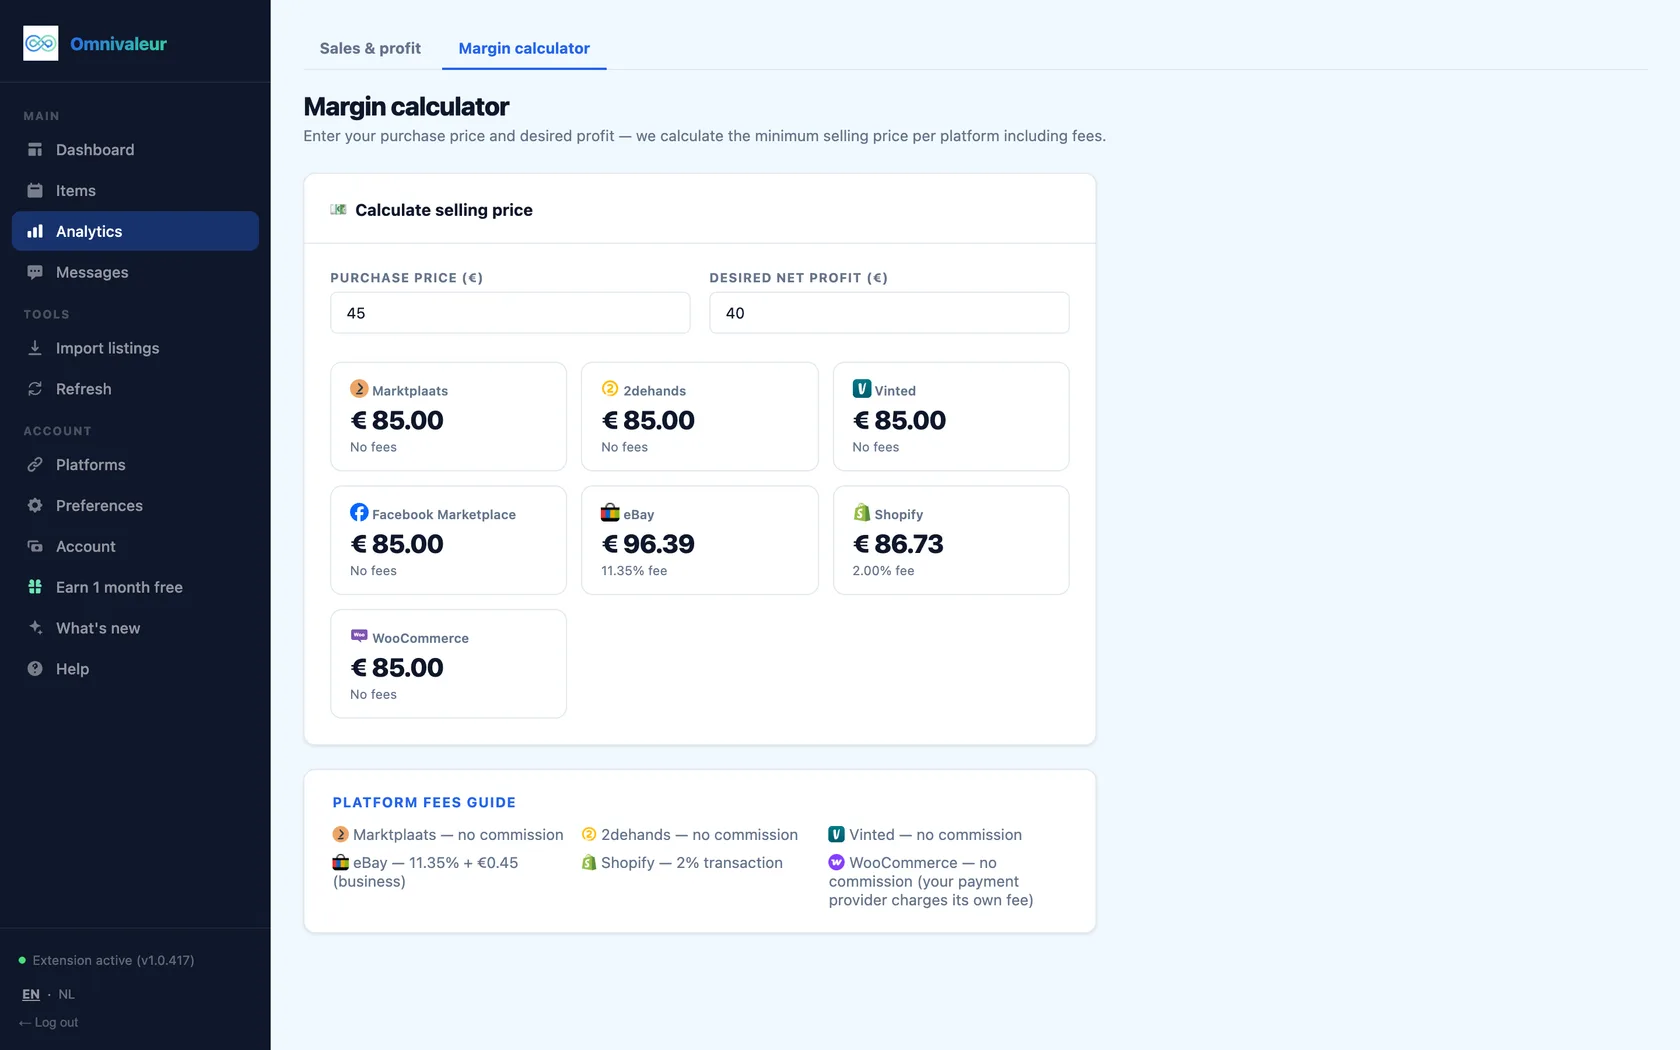
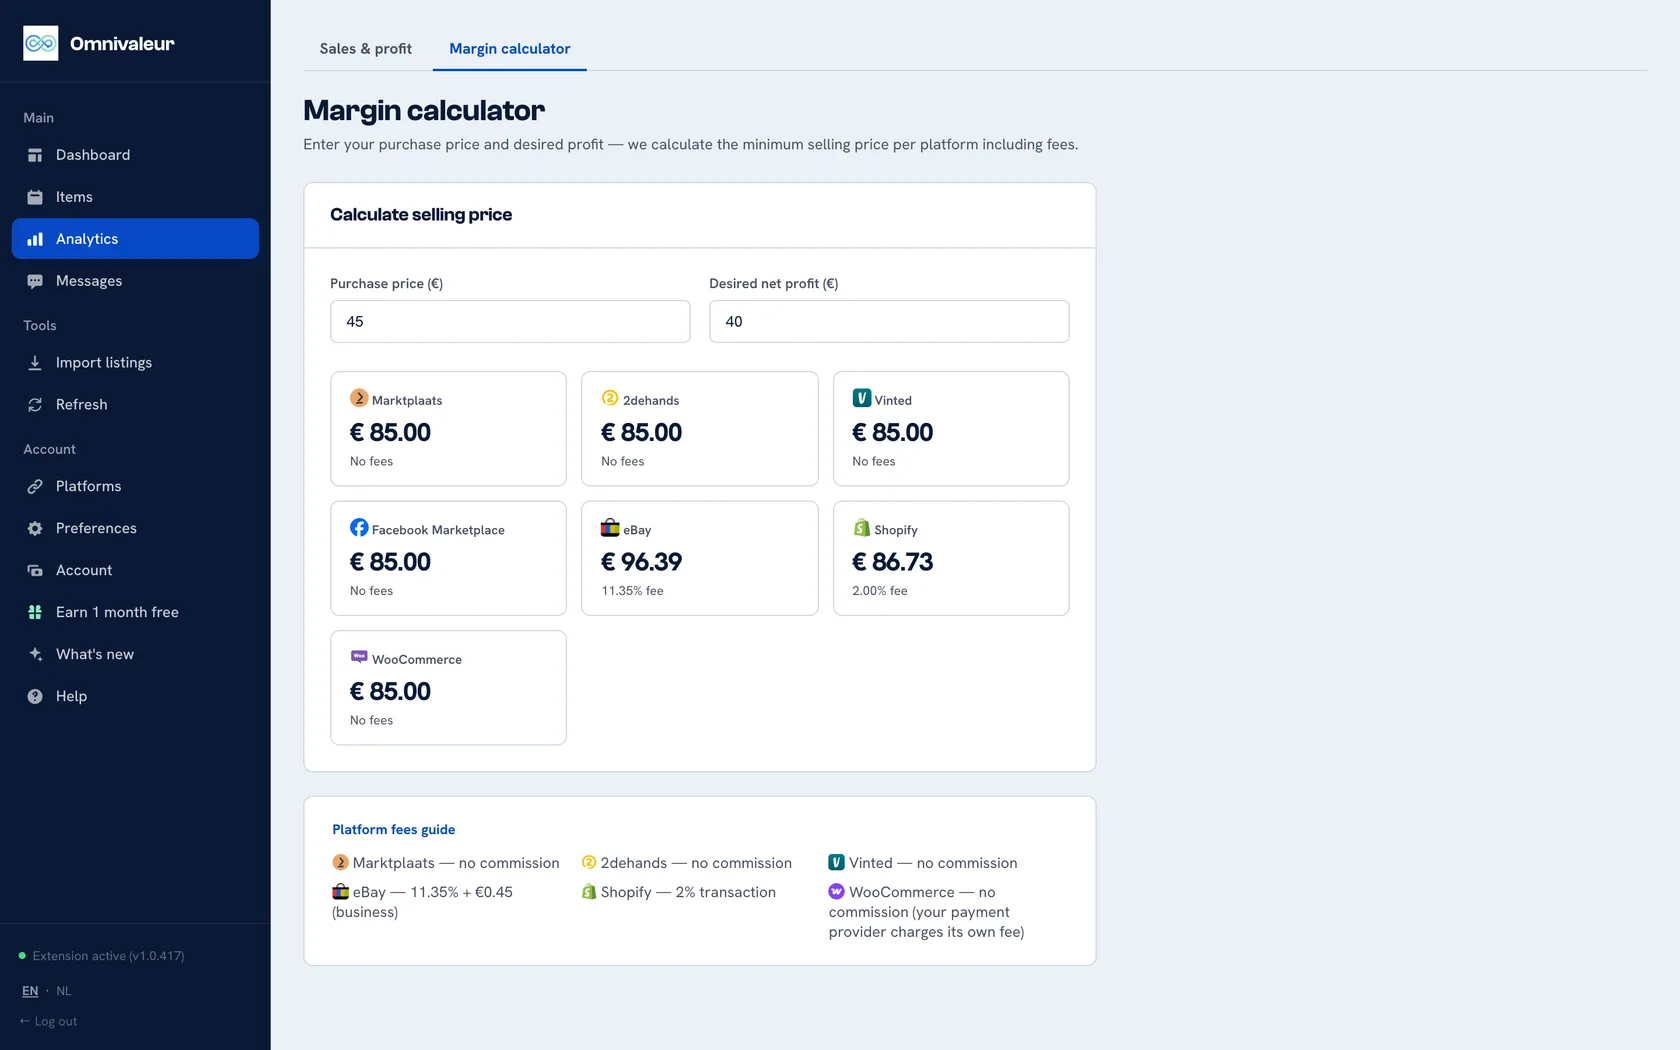
dashboard: laatste details, vertalingen, verse schermafbeeldingen op de site

diff --git a/frontend/app.html b/frontend/app.html
@@ -2,7 +2,7 @@
 <html lang="en">
 <head>
 <meta charset="UTF-8">
-<script src="/i18n.js?v=7e469d0d5d"></script>
+<script src="/i18n.js?v=a968cb9cf0"></script>
 <meta name="viewport" content="width=device-width, initial-scale=1">
 <title>Omnivaleur</title>
 <meta name="robots" content="noindex, nofollow">
@@ -243,15 +243,15 @@ tr.selected td { background: #dde8fd; }
 .pm-dot-icon.s-error { background: #fbe9c6; border-color: #fbbf24; }
 .pm-dot-icon.s-none { background: #eaf1f6; border-color: #d0d8e1; opacity: .45; }
 /* Staat er wél op, maar via een dubbele rij van hetzelfde artikel. */
-.pm-dot-icon.s-twin { background: #ede9fe; border-color: #c4b5fd; }
+.pm-dot-icon.s-twin { background: #dfe8f6; border-color: #d0d8e1; }
 .pm-dot-icon .pm-dot-badge { position: absolute; bottom: -3px; right: -3px; width: 12px; height: 12px; border-radius: 50%; border: 1.5px solid #fff; font-size: 7px; display: flex; align-items: center; justify-content: center; font-weight: 800; line-height: 1; }
 .pm-dot-icon.s-active .pm-dot-badge { background: #005f3a; color: #fff; }
 .pm-dot-icon.s-pending .pm-dot-badge { background: #7b4800; color: #fff; }
 .pm-dot-icon.s-error .pm-dot-badge { background: #a51f1b; color: #fff; }
-.pm-dot-icon.s-twin .pm-dot-badge { background: #7c3aed; color: #fff; }
+.pm-dot-icon.s-twin .pm-dot-badge { background: #0649c7; color: #fff; }
 .pm-dot-label { font-size: 9px; font-weight: 700; color: #485363; letter-spacing: .2px; text-transform: uppercase; }
 .pm-dot-icon.s-active + .pm-dot-label { color: #005f3a; }
-.pm-dot-icon.s-twin + .pm-dot-label { color: #6d28d9; }
+.pm-dot-icon.s-twin + .pm-dot-label { color: #0039ab; }
 .pm-cb-listed { display: flex; align-items: center; gap: 8px; padding: 9px 13px; border: 1.5px solid #85edbc; border-radius: 8px; background: #d8f7e6; }
 .pm-cb-listed span { font-size: 13px; font-weight: 600; color: #005f3a; }
 .pm-cb-listed .pm-cb-check { font-size: 13px; margin-left: auto; color: #005f3a; font-weight: 800; }
@@ -315,7 +315,7 @@ textarea { resize: vertical; min-height: 80px; }
 
 /* ── Wat is er nieuw: tijdlijn ─────────────────────────────────── */
 .upd-hero{position:relative;overflow:hidden;border-radius:8px;padding:26px 28px;color:#fff;background:#0039ab;box-shadow:0 10px 30px rgba(6,73,199,.25)}
-.upd-hero::after{content:'';position:absolute;right:-70px;top:-70px;width:240px;height:240px;border-radius:50%;background:rgba(255,255,255,.1)}
+.upd-hero::after{display:none}
 .upd-hero h2{margin:0 0 4px;font-size:24px;font-weight:900;letter-spacing:-.4px;position:relative}
 .upd-hero p{margin:0 0 18px;font-size:13.5px;opacity:.85;position:relative;max-width:520px;line-height:1.5}
 .upd-tegels{display:grid;grid-template-columns:repeat(3,1fr);gap:10px;position:relative}
@@ -341,7 +341,7 @@ textarea { resize: vertical; min-height: 80px; }
 .upd-meta{display:flex;gap:8px;align-items:center;flex-wrap:wrap;margin-bottom:4px;font-size:11.5px;font-weight:700;color:var(--muted)}
 .upd-cat{background:#dde8fd;color:var(--blue);border-radius:6px;padding:2px 9px;font-size:10.5px;font-weight:800;}
 .upd[data-cat=automation] .upd-cat{background:#d8f7e6;color:#005f3a}
-.upd[data-cat=dashboard] .upd-cat{background:#f5f3ff;color:#6d28d9}
+.upd[data-cat=dashboard] .upd-cat{background:#eaf1f6;color:#0039ab}
 .upd[data-cat=plans] .upd-cat{background:#fbe9c6;color:#7b4800}
 .upd h3{margin:0 0 4px;font-size:16px;font-weight:900;letter-spacing:-.2px}
 .upd p{margin:0;font-size:13.5px;line-height:1.6;color:#15284b}
@@ -583,7 +583,7 @@ tr.an-row-missing { background: rgba(245,158,11,.05); }
 .protection-icon.green { background: var(--green-bg); }
 .protection-icon.blue { background: var(--blue-bg); }
 .protection-icon.yellow { background: var(--yellow-bg); }
-.protection-icon.purple { background: #f3e8ff; }
+.protection-icon.purple { background: #dfe8f6; }
 .protection-status { display: inline-flex; align-items: center; gap: 5px; font-size: 11px; font-weight: 700; padding: 3px 9px; border-radius: 6px; background: var(--green-bg); color: var(--green); margin-top: 4px; }
 .protection-status-dot { width: 6px; height: 6px; border-radius: 50%; background: var(--green); flex-shrink: 0; animation: protDotPulse 1.8s ease-in-out infinite; }
 @keyframes protDotPulse { 0%, 100% { opacity: 1; box-shadow: 0 0 0 0 rgba(22,163,74,.5); } 50% { opacity: .7; box-shadow: 0 0 0 4px rgba(22,163,74,0); } }
@@ -882,6 +882,8 @@ input:focus, textarea:focus, select:focus { box-shadow: none; outline: 2px solid
 .empty-icon .ic, .protection-icon .ic, .protections-summary-icon .ic { width: 22px; height: 22px; }
 .empty-icon { color: var(--muted); }
 ::selection { background: var(--mint); color: var(--text); }
+.upd-hero { box-shadow: none; }
+.upd-balk i { min-height: 4px; }
 </style>
 <!-- Google tag (gtag.js) -->
 <script async src="https://www.googletagmanager.com/gtag/js?id=G-VJ5BVD3GCH"></script>
@@ -5212,7 +5214,7 @@ function renderReferralTeaser() {
     ? ` <b style="color:#005f3a">${s.months_earned} month${s.months_earned !== 1 ? 's' : ''} earned.</b>` : '';
   doel.innerHTML = `
     <div style="display:flex;align-items:center;gap:10px 14px;flex-wrap:wrap;background:#d8f7e6;border:1px solid #85edbc;border-radius:8px;padding:10px 14px;margin-bottom:20px;font-size:13px;color:#005f3a;line-height:1.5">
-      <span style="font-size:18px">&#127873;</span>
+      <span style="font-size:18px;color:var(--blue)"><svg class="ic" aria-hidden="true"><use href="#ic-info"/></svg></span>
       <div style="flex:1;min-width:220px"><b>Earn 1 month free.</b> Every seller who subscribes through your link gives you a free month; they get 50% off their first month.${gehaald}</div>
       <div style="display:flex;gap:6px;flex-shrink:0">
         <button class="btn btn-sm btn-outline" onclick="referralCopy(_referral.link, this)">Copy my link</button>
@@ -5890,7 +5892,7 @@ async function toonImportSeintje() {
     const n = (d && d.by_status && d.by_status.pending) || 0;
     if (!n) return;
     doel.innerHTML = `<div style="display:flex;align-items:center;gap:10px 14px;flex-wrap:wrap;background:#dde8fd;border:1px solid #dde8fd;border-radius:8px;padding:12px 16px;margin-bottom:20px;font-size:13.5px;color:#0039ab;line-height:1.5">
-      <span style="font-size:18px">&#128229;</span>
+      <span style="font-size:18px;color:var(--blue)"><svg class="ic" aria-hidden="true"><use href="#ic-inbox"/></svg></span>
       <div style="flex:1;min-width:220px">${n === 1
         ? `<b>We found 1 advert of yours that is not in Omnivaleur yet.</b> One click puts it in, so you can publish it on your other channels.`
         : `<b>We found ${n} adverts of yours that are not in Omnivaleur yet.</b> One click puts them in, so you can publish them on your other channels.`}</div>
@@ -6927,7 +6929,7 @@ function renderDuplicateBar() {
       (i.listings || []).filter(l => ['active', 'hidden'].includes(l.status))
                         .map(l => PLATFORM_LABELS[l.platform] || l.platform)))];
     const eerste = g.items[0];
-    return `<div style="display:flex;align-items:center;gap:10px;padding:8px 0;border-top:1px solid #ede9fe">
+    return `<div style="display:flex;align-items:center;gap:10px;padding:8px 0;border-top:1px solid #dfe8f6">
       <div style="flex:1;min-width:0">
         <div style="font-size:13px;font-weight:600;color:#15284b;overflow:hidden;text-overflow:ellipsis;white-space:nowrap" translate="no">${esc(eerste.title || '')}</div>
         <div style="font-size:11px;color:#485363">${g.items.length} copies of one article${kanalen.length ? ' · live on ' + esc(kanalen.join(', ')) : ''}</div>
@@ -6937,16 +6939,16 @@ function renderDuplicateBar() {
   }).join('');
 
   bar.style.display = '';
-  bar.innerHTML = `<div style="border:1.5px solid #c4b5fd;background:#f5f3ff;border-radius:8px;padding:12px 14px;margin-bottom:14px">
+  bar.innerHTML = `<div style="border:1.5px solid #d0d8e1;background:#eaf1f6;border-radius:8px;padding:12px 14px;margin-bottom:14px">
     <div style="display:flex;align-items:center;gap:8px;flex-wrap:wrap">
-      <strong style="font-size:14px;color:#5b21b6">⧉ ${teveel} duplicate row${teveel === 1 ? '' : 's'} — the same article is in your inventory more than once</strong>
+      <strong style="font-size:14px;color:#0039ab">⧉ ${teveel} duplicate row${teveel === 1 ? '' : 's'} — the same article is in your inventory more than once</strong>
       <button class="btn btn-primary btn-sm" style="margin-left:auto" onclick="mergeAllDuplicates()">Merge all ${groepen.length}</button>
     </div>
-    <div style="font-size:12px;color:#5b21b6;margin-top:4px">
+    <div style="font-size:12px;color:#0039ab;margin-top:4px">
       Each copy only knows its own adverts, so the others look "not listed" — publish from one and you get a second advert for an article you already have for sale. Merging keeps every advert and puts them under one item.
     </div>
     ${regels}
-    ${groepen.length > TOON ? `<div style="font-size:11px;color:#7c3aed;padding-top:8px">…and ${groepen.length - TOON} more.</div>` : ''}
+    ${groepen.length > TOON ? `<div style="font-size:11px;color:#0649c7;padding-top:8px">…and ${groepen.length - TOON} more.</div>` : ''}
   </div>`;
 }
 
@@ -9201,7 +9203,7 @@ function sharedAdvertBadge(item, idx) {
   const tip = `This row and another row in your dashboard point at the SAME advert on ${kanalen}. `
     + `Delist would remove that advert from the platform for both. Imported twice? Use Delete: `
     + `that only clears this row and leaves the advert online.`;
-  return ` <span class="badge" style="background:#ede9fe;color:#5b21b6;font-weight:700;cursor:pointer"
+  return ` <span class="badge" style="background:#dfe8f6;color:#0039ab;font-weight:700;cursor:pointer"
     title="${esc(tip)}"
     onclick="event.stopPropagation();showSharedAdvertInfo('${esc(item.id)}')">\u{1F517} Shared advert</span>`;
 }

diff --git a/frontend/register.html b/frontend/register.html
@@ -2,7 +2,7 @@
 <html lang="en">
 <head>
 <meta charset="UTF-8">
-<script src="/i18n.js?v=7e469d0d5d"></script>
+<script src="/i18n.js?v=a968cb9cf0"></script>
 <meta name="viewport" content="width=device-width, initial-scale=1">
 <title>Create account — Omnivaleur</title>
 <meta name="description" content="Start your 7-day free trial of Omnivaleur. No credit card required. Publish to Marktplaats, 2dehands, Vinted, eBay, Shopify and WooCommerce at once.">

diff --git a/frontend/shopify-callback.html b/frontend/shopify-callback.html
@@ -2,7 +2,7 @@
 <html lang="en">
 <head>
 <meta charset="UTF-8">
-<script src="/i18n.js?v=7e469d0d5d"></script>
+<script src="/i18n.js?v=a968cb9cf0"></script>
 <meta name="viewport" content="width=device-width, initial-scale=1">
 <title>Connecting Shopify — Omnivaleur</title>
 <link rel="icon" type="image/png" href="logo.png">

diff --git a/frontend/reset-password.html b/frontend/reset-password.html
@@ -2,7 +2,7 @@
 <html lang="en">
 <head>
 <meta charset="UTF-8">
-<script src="/i18n.js?v=7e469d0d5d"></script>
+<script src="/i18n.js?v=a968cb9cf0"></script>
 <meta name="viewport" content="width=device-width, initial-scale=1">
 <title>Set new password — Omnivaleur</title>
 <meta name="robots" content="noindex, nofollow">

diff --git a/frontend/ebay-callback.html b/frontend/ebay-callback.html
@@ -2,7 +2,7 @@
 <html lang="en">
 <head>
 <meta charset="UTF-8">
-<script src="/i18n.js?v=7e469d0d5d"></script>
+<script src="/i18n.js?v=a968cb9cf0"></script>
 <meta name="viewport" content="width=device-width, initial-scale=1">
 <title>Connecting eBay — Omnivaleur</title>
 <meta name="robots" content="noindex, nofollow">

diff --git a/frontend/forgot-password.html b/frontend/forgot-password.html
@@ -2,7 +2,7 @@
 <html lang="en">
 <head>
 <meta charset="UTF-8">
-<script src="/i18n.js?v=7e469d0d5d"></script>
+<script src="/i18n.js?v=a968cb9cf0"></script>
 <meta name="viewport" content="width=device-width, initial-scale=1">
 <title>Forgot password — Omnivaleur</title>
 <meta name="robots" content="noindex, nofollow">

diff --git a/frontend/login.html b/frontend/login.html
@@ -2,7 +2,7 @@
 <html lang="en">
 <head>
 <meta charset="UTF-8">
-<script src="/i18n.js?v=7e469d0d5d"></script>
+<script src="/i18n.js?v=a968cb9cf0"></script>
 <meta name="viewport" content="width=device-width, initial-scale=1">
 <title>Log in — Omnivaleur</title>
 <meta name="robots" content="noindex, follow">
